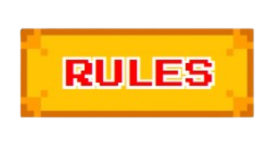
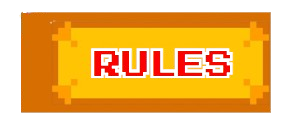
Added Submit rules and back button - Crystal

diff --git a/src/DisplayPanel.java b/src/DisplayPanel.java
@@ -1,8 +1,6 @@
 import javax.imageio.ImageIO;
 import javax.swing.*;
-import java.awt.Graphics;
-import java.awt.Font;
-import java.awt.Color;
+import java.awt.*;
 import java.awt.event.ActionEvent;
 import java.awt.event.ActionListener;
 import java.awt.image.BufferedImage;
@@ -22,7 +20,10 @@ public class DisplayPanel extends JPanel implements ActionListener {
     private JButton again;
     private JLabel message;
     //private Image homeBack;
+    private Icon playButton;
     private Icon rulesButton;
+    private Icon backButton;
+    private Icon submitButton;
     private JLabel background;
     private JFrame frame;
 
@@ -67,12 +68,18 @@ public class DisplayPanel extends JPanel implements ActionListener {
             colors[i].setVisible(false);
             colors[i].setBackground(colorObjs[i]);
         }
+
+        ImageIcon rulesButton = new ImageIcon("src\\RULESButton.png");
+        ImageIcon submitButton = new ImageIcon("src\\SUBMITButton.png");
+        ImageIcon playButton = new ImageIcon("src\\PLAYButton.png");
+   //     ImageIcon backButton = new ImageIcon("src\\BACKButton.png");
         //message = ("Welcome to Mastermind!");
         play = new JButton("PLAY"); //ability to put in png for icon
         PlayisClicked = false;
         rulesText = ("");
         //button = new JButton("Rules of the Game");
         play.addActionListener(this);
+        play.setIcon(playButton);
         add(play);
 
         backToHome = new JButton("BACK");
@@ -94,17 +101,19 @@ public class DisplayPanel extends JPanel implements ActionListener {
             System.out.println(e.getMessage());
         }
 
-        ImageIcon rulesButton = new ImageIcon("src\\RULESButton.png");
 
 
         rules = new JButton("RULES");
         rules.setIcon(rulesButton);
         rules.setBorderPainted(false);
+        rules.setBorder(null);
         rules.addActionListener(this);
         add(rules);
 
         submit = new JButton("SUBMIT");
         submit.addActionListener(this);
+        submit.setBorderPainted(false);
+        submit.setIcon(submitButton);
         add(submit);
         submit.setVisible(false);
 
@@ -137,17 +146,17 @@ public class DisplayPanel extends JPanel implements ActionListener {
       /*  message.setFont(new Font("Eras Bold ITC", Font.BOLD, 60));
         message.setLocation(150, 250);*/
 
-        if(pressedRule){
-           /* message.setText("Rules");
-            message.setLocation(500, 100);*/
+      /*  if(pressedRule){
+           *//* message.setText("Rules");
+            message.setLocation(500, 100);*//*
             pressedRule = false;
         }
 
         if(pressedBack){
-            /*message.setText("Welcome to Mastermind");
-            message.setLocation(150, 100);*/
+            *//*message.setText("Welcome to Mastermind");
+            message.setLocation(150, 100);*//*
             pressedBack = false;
-        }
+        }*/
 
         if(pressedPlay){
             g.setFont(new Font("Arial", Font.BOLD, 20));
@@ -163,14 +172,19 @@ public class DisplayPanel extends JPanel implements ActionListener {
         }
 
         play.setLocation(300, 350);
-        play.setSize(200, 70);
+        play.setSize(250, 99);
         play.setFont(new Font("Arial", Font.BOLD, 30));
+        play.setMargin(new Insets(0, 0, 0 ,0));
+        play.setContentAreaFilled(false);
         g.setFont(new Font("Arial", Font.BOLD, 20));
 
         g.drawString(rulesText,500,500);
         g.setColor(Color.BLACK);
-        rules.setLocation(300, 435);
-        rules.setSize(240, 90);
+        rules.setLocation(300, 470);
+        rules.setSize(230, 95);
+        rules.setMargin(new Insets(0, 0, 0, 0));
+        rules.setContentAreaFilled(false);
+
 
         rules.setFont(new Font("Arial", Font.BOLD, 30));
 
@@ -185,10 +199,16 @@ public class DisplayPanel extends JPanel implements ActionListener {
         again.setLocation(275, 300);
         again.setSize(300, 100);
         again.setFont(new Font("Arial", Font.BOLD, 30));
+        ImageIcon backButton = new ImageIcon("src\\BACKButton.png");
 
         backToHome.setFont(new Font("Arial", Font.BOLD, 30));
         backToHome.setLocation(50,100);
-        backToHome.setSize(200,70);
+        backToHome.setSize(230,95);
+        backToHome.setIcon(backButton);
+        backToHome.setBorderPainted(false);
+        backToHome.setMargin(new Insets(0, 0, 0, 0));
+        //backToHome.setContentAreaFilled(false);
+
         int xVal = 240;
         for (JButton c:colors){
             c.setLocation(xVal,640);
